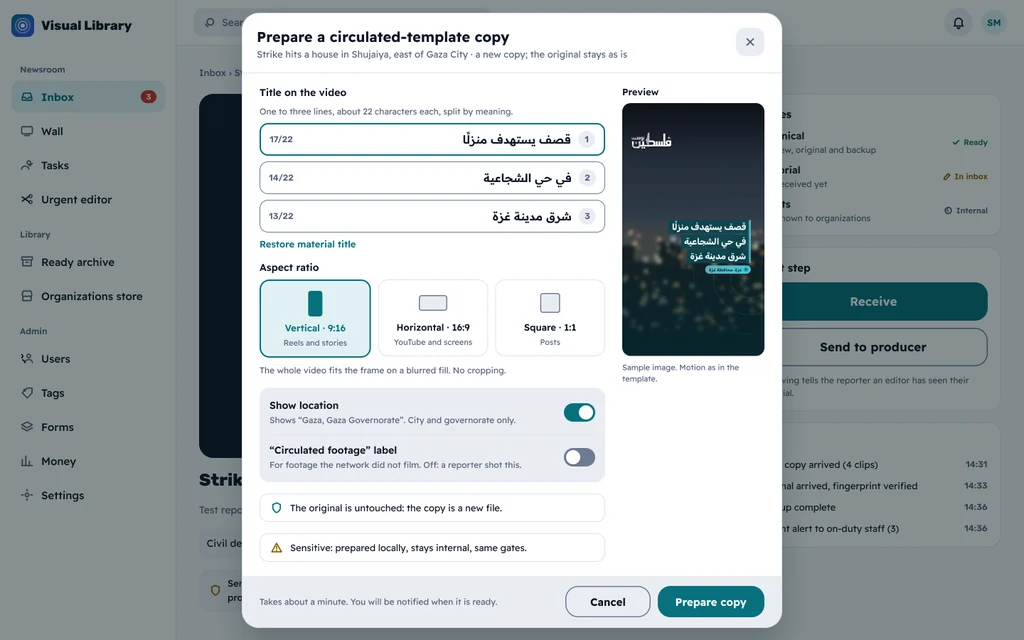
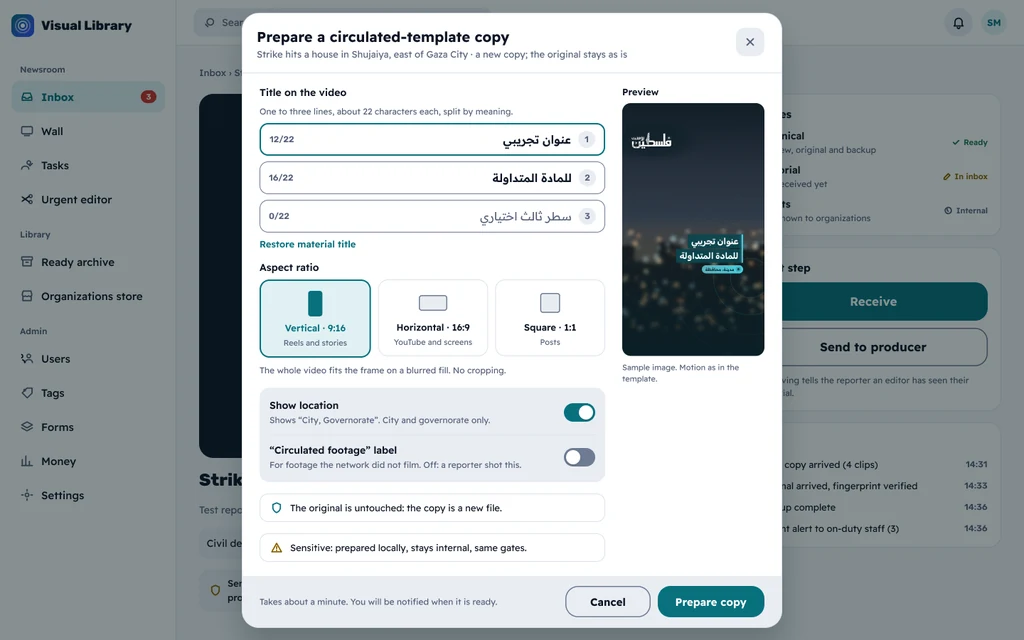
design: neutral sample text and current template in request previews
Claude-Session: https://claude.ai/code/session_01HY7py4Kwox1KypVxZuFGKP

diff --git a/docs/design/specs/web-v2.md b/docs/design/specs/web-v2.md
@@ -138,7 +138,7 @@
 
 ## نسخة بقالب المتداول (صفحة Figma `Web · طلب نسخة بقالب المتداول`)
 
-**مقترح يتوقف على ADR 0091 وتغيير العقد معه.** قرار المالك (2026-11-02): «نعم نربطه بخط الإنتاج». القالب نفسه موصوف في `video-template.md`، وهذا القسم يرسم طلبه من الويب وحالاته. الطلب يرسله فرد من الطاقم يدويًا: لا يُصنع آليًا، وليس محرّرًا. الأسماء والعناوين في الإطارات عيّنات.
+**مقترح يتوقف على ADR 0091 وتغيير العقد معه.** قرار المالك (2026-11-02): «نعم نربطه بخط الإنتاج». القالب نفسه موصوف في `video-template.md`، وهذا القسم يرسم طلبه من الويب وحالاته. أسطر العنوان والمعاينة في الإطارات نصّ تجريبي («عنوان تجريبي / للمادة المتداولة»، «مدينة، محافظة») لا عنوان المادة الحقيقي، لأن المعاينة تحمل الشعار. الطلب يرسله فرد من الطاقم يدويًا: لا يُصنع آليًا، وليس محرّرًا. الأسماء والعناوين في الإطارات عيّنات.
 
 | الرمز | الشاشة | اللقطة |
 |---|---|---|
@@ -160,7 +160,7 @@
 - **العنوان على الفيديو:** من سطر إلى ثلاثة، ولكل سطر عدّاد `17/22`. يبدأ بعنوان المادة مقسومًا عند حدود الكلمات، والمحرّر يعيد القسمة على المعنى. «استعادة عنوان المادة» تعيد القسمة الأولى. فوق 22 حرفًا يصير العدّاد بلون الخطر، ويتعطّل «تجهيز النسخة» حتى يُصلَح السطر، لأن السطر الطويل يفيض عن لوحه في القالب. حالة الفيض قاعدة غير مرسومة.
 - **المقاس:** ثلاث بطاقات، في كل منها شكل المقاس مصغّرًا: عمودي 9:16 (الافتراضي)، وأفقي 16:9، ومربّع 1:1. الفيديو يدخل الإطار كاملًا، والفراغ حوله بخلفية مموّهة من الفيديو نفسه، فلا قصّ.
 - **المعاينة:** القالب مصغّرًا بالعنوان والمكان المختارين، ويتبدّل مع المقاس والمفاتيح. الخلفية صورة تجريبية، لا إطار من المادة: المادة حسّاسة، ومعاينتها في النافذة مسار عرض جديد لا يلزم.
-- **إظهار المكان** (مشغَّل افتراضيًا) يكتب ما سيظهر: «غزة، محافظة غزة». المصدر حقلا المادة `city` و`governorate`، فلا إحداثيات ولا تفصيل أدقّ (`CLAUDE.md` §5). وإن غاب أحد الحقلين يُعطَّل المفتاح، ويقول السطر تحته ما الناقص.
+- **إظهار المكان** (مشغَّل افتراضيًا) يكتب ما سيظهر، مثل «مدينة، محافظة». المصدر حقلا المادة `city` و`governorate`، فلا إحداثيات ولا تفصيل أدقّ (`CLAUDE.md` §5). وإن غاب أحد الحقلين يُعطَّل المفتاح، ويقول السطر تحته ما الناقص.
 - **وسم «مشاهد متداولة»** يقول للمشاهد إن الفيديو ليس من تصوير الشبكة، فيبدأ مشغَّلًا للمادة المتداولة وحدها. والمادة في العيّنة من مراسل، فهو مطفأ، والسطر تحته يقول السبب. **فجوة عقد:** معرفة أن المادة «متداولة» تحتاج حقلًا يقولها. إن لم يوجد، يبدأ المفتاح مطفأً ويقرّر المحرّر.
 - **ملاحظتان ثابتتان:**
   - «الأصل لا يُمسّ: النسخة ملف جديد في ملفات المادة.»
